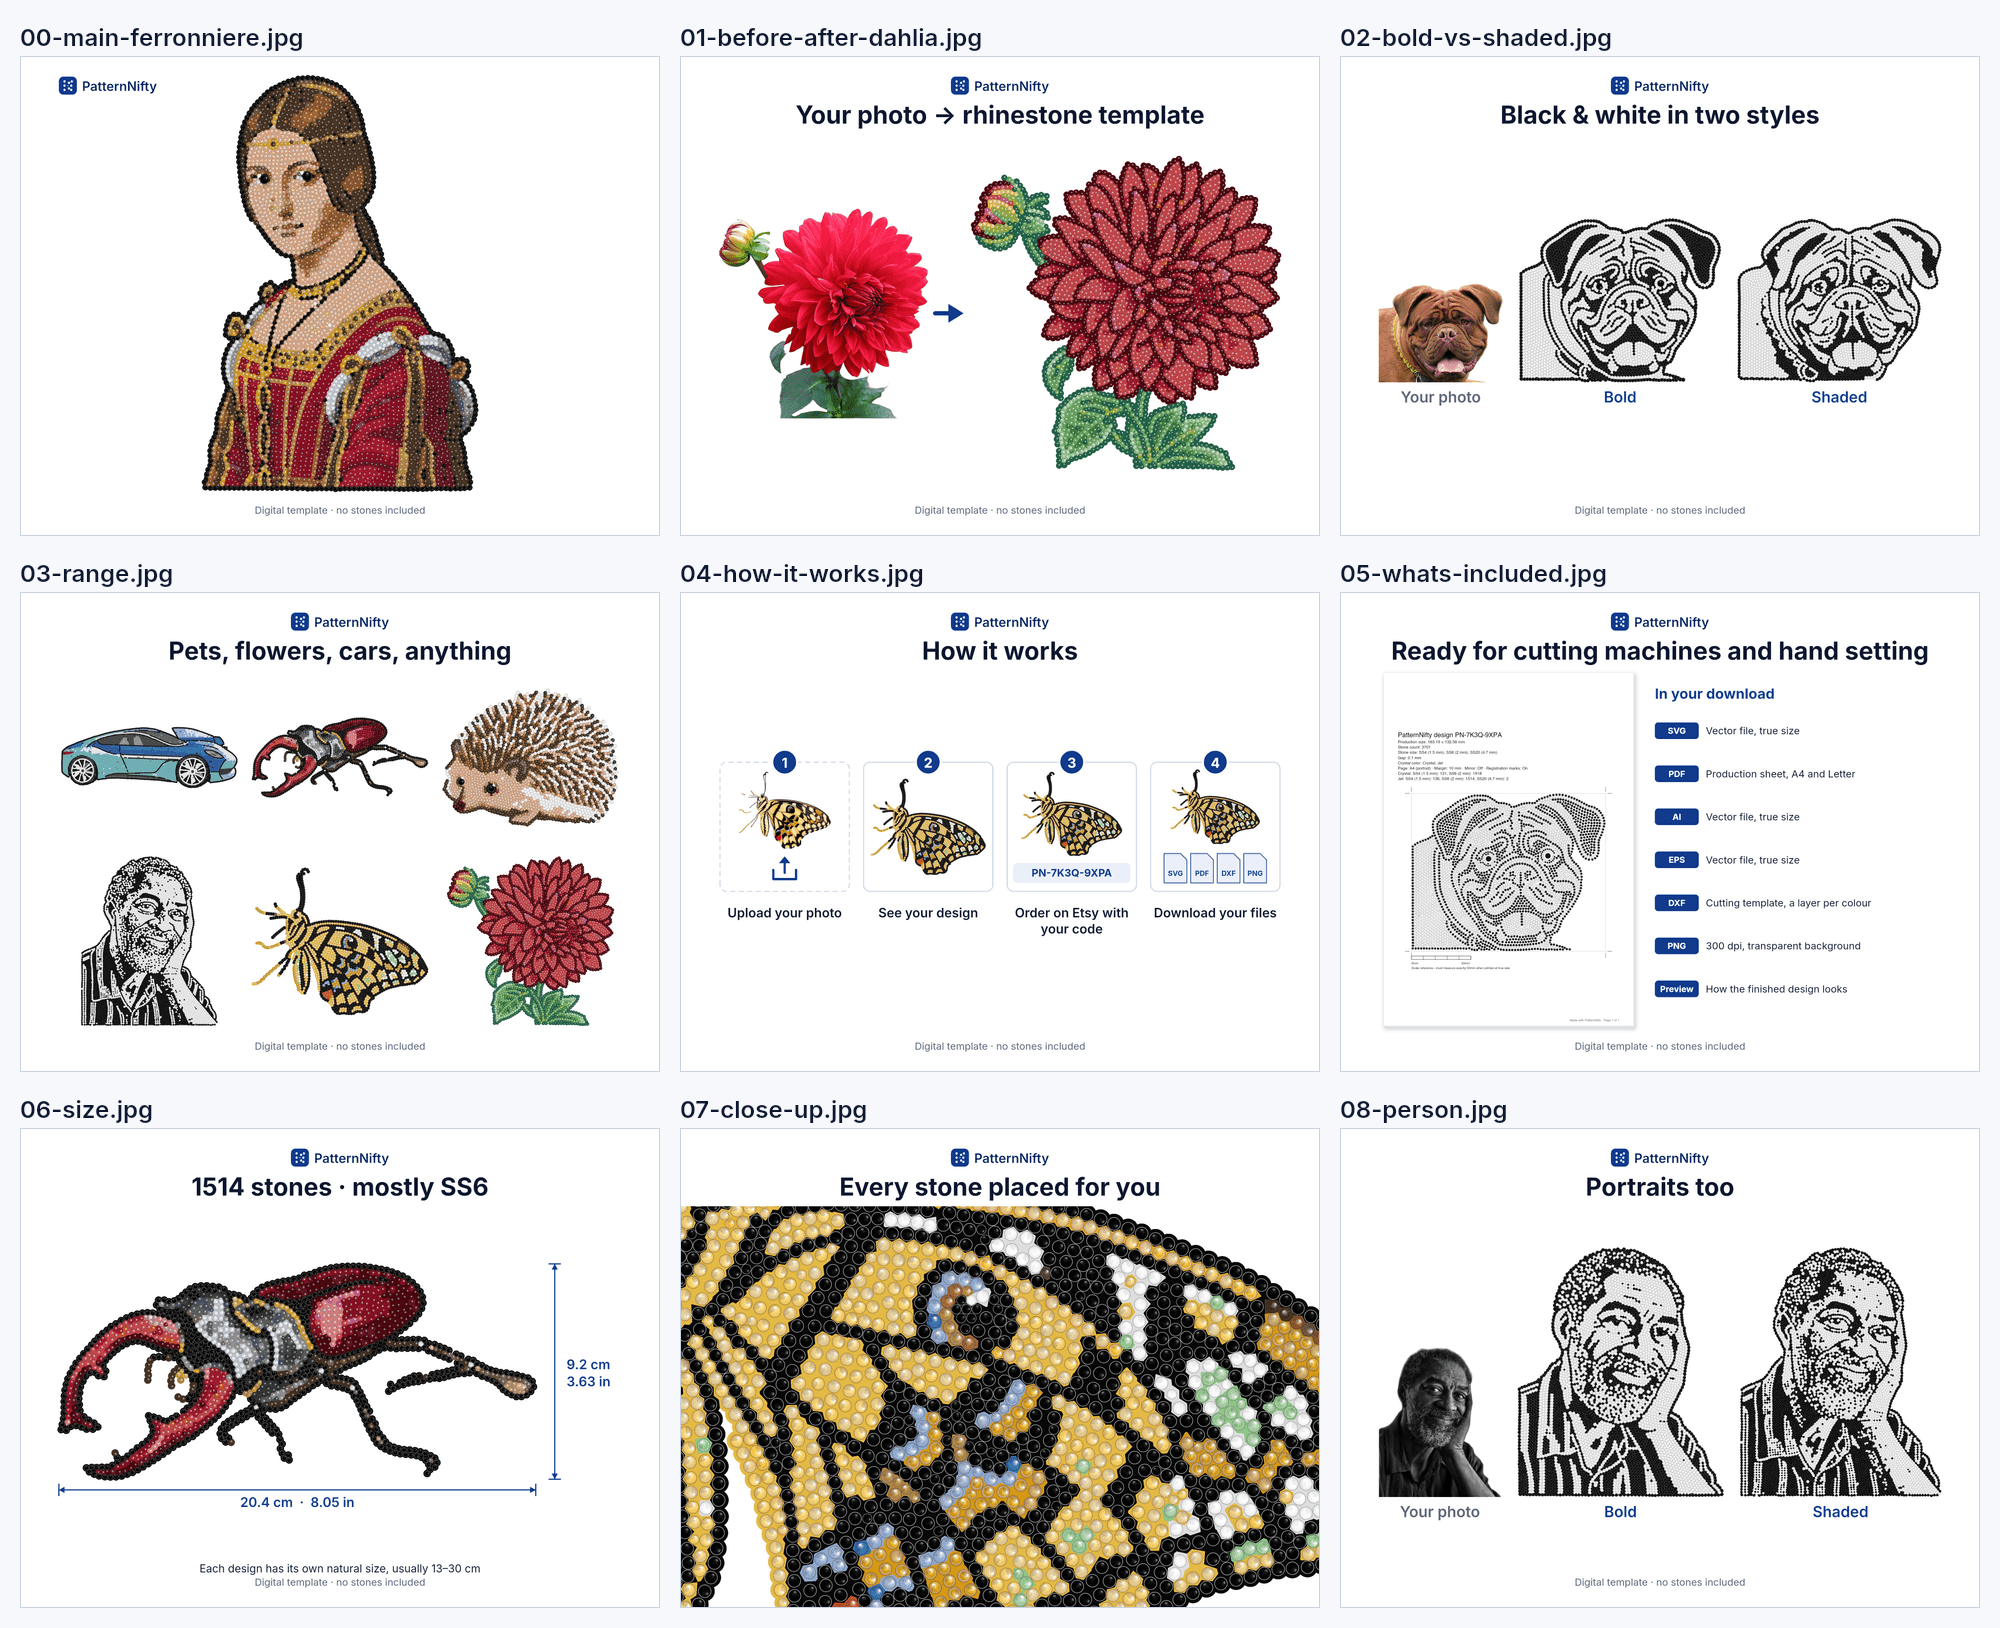
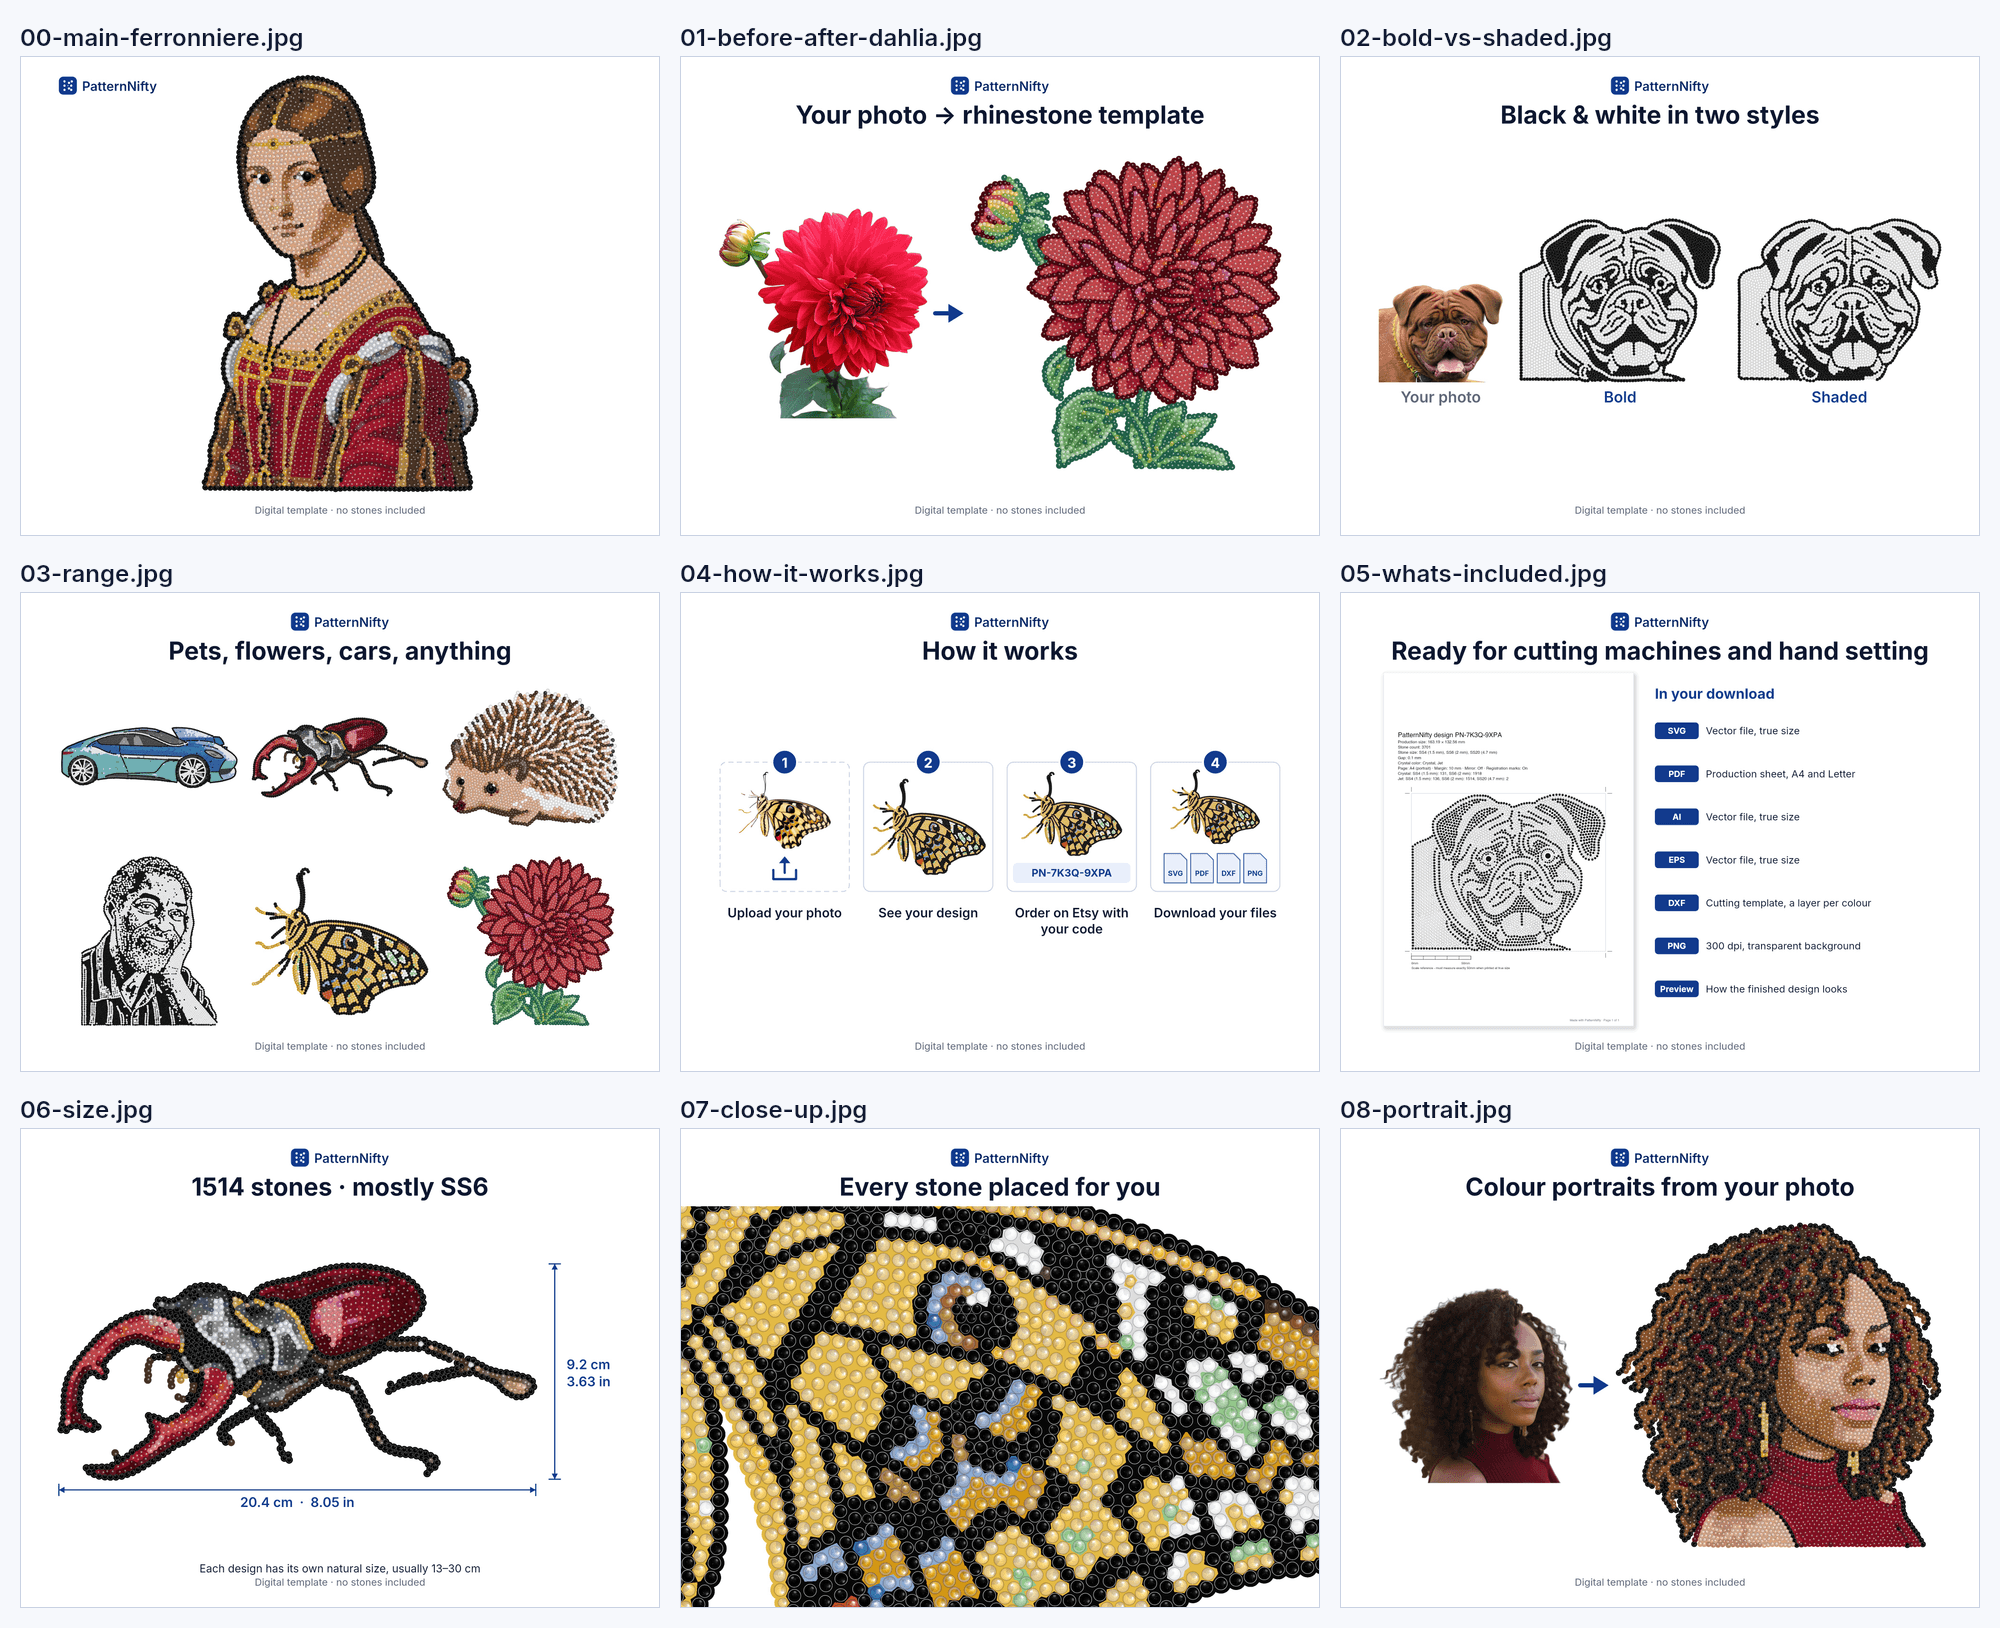
PN-04f: photo 08 as a colour portrait
08-person.jpg (person Bold and Shaded) becomes 08-portrait.jpg: the prepared
photo of portrait-curls at 60 % of the design's height, an arrow, and its
Colour tinted design as large as the safe area allows, titled "Colour
portraits from your photo". mainPhoto() takes the title and the photo's
share (01 unchanged). portrait-curls-colour is now allowed ("yes, photo
08"), person-bw-stencil is "no" and no longer read; person-bw-halftone stays
in 03-range only. Photos README alt text and overview.png updated; photos
00-07 unchanged.

Changed region(s): [[0.682, 0.6757, 0.992, 0.9521]]

diff --git a/docs/listing/README.md b/docs/listing/README.md
@@ -21,7 +21,7 @@ Each folder in `designs/` holds `prepared.png` and `tinted.png` at 1200 px on th
 | [mastiff](designs/mastiff-bw-halftone/) | Black & white Shaded | 4141 | 179.1 × 144 mm (7.05 × 5.67 in) | PickPik, source page not kept | [pickpik Open License](https://www.pickpik.com/license) | yes |
 | [parrot](designs/parrot-colour/) | Colour | 2375 | 111.1 × 114.5 mm (4.37 × 4.51 in) | PickPik, source page not kept | [pickpik Open License](https://www.pickpik.com/license) | no: the photo cuts the head |
 | [person](designs/person-colour/) | Colour | 4685 | 167.4 × 204.2 mm (6.59 × 8.04 in) | PickPik, source page not kept | [pickpik Open License](https://www.pickpik.com/license) | no: the photo is black and white, so the skin colour is made up and wrong |
-| [person](designs/person-bw-stencil/) | Black & white Bold | 5048 | 171.1 × 207.9 mm (6.74 × 8.18 in) | PickPik, source page not kept | [pickpik Open License](https://www.pickpik.com/license) | yes |
+| [person](designs/person-bw-stencil/) | Black & white Bold | 5048 | 171.1 × 207.9 mm (6.74 × 8.18 in) | PickPik, source page not kept | [pickpik Open License](https://www.pickpik.com/license) | no |
 | [person](designs/person-bw-halftone/) | Black & white Shaded | 7154 | 200.9 × 249.5 mm (7.91 × 9.82 in) | PickPik, source page not kept | [pickpik Open License](https://www.pickpik.com/license) | yes |
 | [stag-beetle](designs/stag-beetle-colour/) | Colour | 1514 | 204.4 × 92.3 mm (8.05 × 3.63 in) | PickPik, source page not kept | [pickpik Open License](https://www.pickpik.com/license) | yes |
 
@@ -41,7 +41,7 @@ tuning), each on its first try. [portraits/overview.png](portraits/overview.png)
 | # | Subject | Mode | Stones | Natural size | Photo source | Licence | Use in listing |
 | ---: | --- | --- | ---: | --- | --- | --- | --- |
 | 1 | [portrait-freckles](designs/portrait-freckles-colour/) | Colour | 3176 | 137.1 × 200.8 mm (5.4 × 7.9 in) | [Wikimedia Commons](https://commons.wikimedia.org/wiki/File:Smile_with_Freckles_(Unsplash).jpg), Gabriel Silvério | CC0 | not decided |
-| 2 | [portrait-curls](designs/portrait-curls-colour/) | Colour | 4764 | 174.6 × 174.7 mm (6.88 × 6.88 in) | [Wikimedia Commons](https://commons.wikimedia.org/wiki/File:Confident_Eye_Contact_(Unsplash).jpg), Tanja Heffner | CC0 | not decided: the skin came out much lighter than in the photo |
+| 2 | [portrait-curls](designs/portrait-curls-colour/) | Colour | 4764 | 174.6 × 174.7 mm (6.88 × 6.88 in) | [Wikimedia Commons](https://commons.wikimedia.org/wiki/File:Confident_Eye_Contact_(Unsplash).jpg), Tanja Heffner | CC0 | yes (photo 08); the skin came out much lighter than in the photo |
 | 3 | [portrait-elder](designs/portrait-elder-colour/) | Colour | 3936 | 143.1 × 177.4 mm (5.63 × 6.99 in) | [Wikimedia Commons](https://commons.wikimedia.org/wiki/File:Karen_Elder_(Unsplash).jpg), Capturing the human heart. | CC0 | not decided |
 | 6 | [portrait-glasses](designs/portrait-glasses-colour/) | Colour | 3089 | 163.1 × 164.2 mm (6.42 × 6.46 in) | [Wikimedia Commons](https://commons.wikimedia.org/wiki/File:Man_vanguard_glasses_outdoors_(Unsplash).jpg), Seth Doyle | CC0 | not decided: one eye is missing |
 

diff --git a/docs/listing/photos/README.md b/docs/listing/photos/README.md
@@ -25,6 +25,6 @@ Text is set in Inter (SIL Open Font License, `tools/fonts/`).
 | 6 | [05-whats-included.jpg](05-whats-included.jpg) | The first page of a printable production sheet for a black and white mastiff template, next to the list of files included: SVG, PDF production sheet in A4 and Letter, AI, EPS, DXF, PNG and a preview. |
 | 7 | [06-size.jpg](06-size.jpg) | A colour rhinestone template of a stag beetle with dimension lines: 20.4 cm (8.05 in) wide and 9.2 cm (3.63 in) high, 1514 stones, mostly SS6. Each design has its own natural size, usually 13 to 30 cm. |
 | 8 | [07-close-up.jpg](07-close-up.jpg) | A close-up of the butterfly template's wing: single rhinestones in clear yellow areas edged by black lines, with blue, white and green spots. Title: Every stone placed for you. |
-| 9 | [08-person.jpg](08-person.jpg) | A small black and white portrait photo of a smiling man, then two rhinestone templates of it labelled Bold and Shaded. Title: Portraits too. |
+| 9 | [08-portrait.jpg](08-portrait.jpg) | A small colour photo of a young woman with dark curly hair, earrings and a dark red top, an arrow, and the same portrait drawn larger as a colour rhinestone template, every stone shown. Title: Colour portraits from your photo. |
 
 Every photo except the close-up says "Digital template · no stones included" at the bottom.
